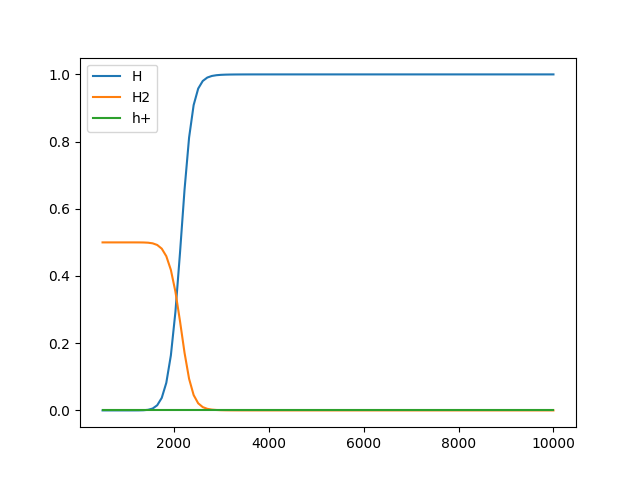
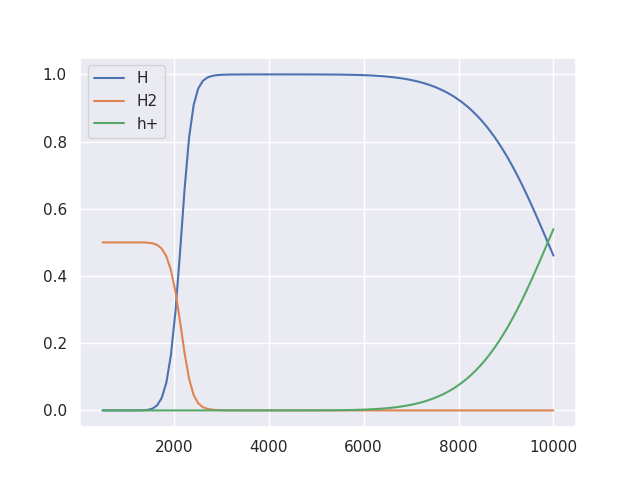
add : 電離を正確に記述

diff --git a/calc_operator.py b/calc_operator.py
@@ -58,31 +58,29 @@ def calc_Q(idx, v, r, rho, t_h, deltat, Q):
     return Q, Phi_res
 
 
-def calc_gamma(fht):
-    molecular = 7 / 5
-    monoatomic = 5 / 3
-    gamma_res = molecular * fht * 2 + monoatomic * (0.5 - fht) * 2
+def calc_gamma(fh, fht, fion):
+    gamma_res = 1 + 1 / (1.5 * (fh + fion) + 5 * fht)
     return gamma_res
 
 
 def calc_fh(tmp, rho, xmu):
-    coef_b = ((2 * np.pi * m_e) ** 0.5 / planck) ** 3
     coef_a = 2 * ((np.pi * m_p) ** 0.5 / planck) ** 3
+    coef_b = ((2 * np.pi * m_e) ** 0.5 / planck) ** 3
 
+    ntot = NA * rho / xmu
     kbt = kb * tmp
 
     exp_xi_d = np.exp(-xi_d / kbt)
     exp_xi_h = np.exp(-xi_h / kbt)
     kh_d = coef_a * (kbt ** 1.5) * exp_xi_d
-    kh_h = coef_b * (kbt ** 1.5) * exp_xi_h
+    kh_h = coef_b * (kbt ** 1.5) * exp_xi_h / ntot
     if np.max(kh_d) < 0.0000001:
         a = np.zeros_like(tmp)
         b = np.ones_like(tmp)
         return a, b / 2, a
-    ntot = NA * rho / xmu
     sqrtk = (kh_d) ** 0.5
     fh_d = 2 * sqrtk / (sqrtk + (kh_d + 4 * ntot) ** 0.5)
-    fh_h = 0
+    fh_h = (kh_h / (1 + kh_h)) ** 0.5
 
     fht = (1 - fh_d) / 2
     fh = fh_d * (1 - fh_h)

diff --git a/plot_fh_2d.py b/plot_fh_2d.py
@@ -21,11 +21,14 @@ def search_fh():
         best_high = 0.0
         best_tmp_high = 100
         for item in tmp_ls:
-            if np.abs(calc_fh(item, rho_res, AVG)[0] - 0.1) < np.abs(best_low - 0.1):
-                best_low = calc_fh(item, rho_res, AVG)[0]
+            fh_low = 2 * (0.5 - calc_fh(item, rho_res, 2.15)[1])
+            fh_high = 2 * (0.5 - calc_fh(item, rho_res, 1.4)[1])
+
+            if np.abs(fh_low - 0.1) < np.abs(best_low - 0.1):
+                best_low = fh_low
                 best_tmp_low = item
-            if np.abs(calc_fh(item, rho_res, AVG)[0] - 0.9) < np.abs(best_high - 0.9):
-                best_high = calc_fh(item, rho_res, AVG)[0]
+            if np.abs(fh_high - 0.9) < np.abs(best_high - 0.9):
+                best_high = fh_high
                 best_tmp_high = item
         print("index:", rho_index)
         print(best_low)

diff --git a/main_ionization.py b/main_ionization.py
@@ -59,7 +59,7 @@ def next(
     rho_res = deltam / ((4 / 3) * np.pi * (np.diff(np.power(r_res, 3))))
     rho = np.vstack((rho, rho_res.astype(np.float64)))
 
-    gamma = calc_gamma(fht[idx])
+    gamma = calc_gamma(fh[idx], fht[idx], fion[idx])
 
     Q, Phi_res = calc_Q(idx, v, r, rho, t_h, deltat, Q)
     efromq = t_n * Phi_res
@@ -87,7 +87,7 @@ def next(
     f = np.zeros_like(tmp[idx])
     tmp_res = np.ones_like(tmp[idx]) * TMP_INIT
     deltatmp = np.zeros_like(tmp[idx])
-    xmu = 1.4 / (0.1 + fh[idx] + fht[idx])
+    xmu = 1.4 / (0.1 + fh[idx] + fht[idx] + 2 * fion[idx])
     if idx <= 10:
         pderfht = np.zeros_like(tmp[idx])
     else:

diff --git a/plot_core.py b/plot_core.py
@@ -4,7 +4,6 @@ import numpy as np
 import matplotlib.pyplot as plt
 import seaborn as sns
 
-from calc_operator import calc_fh, calc_gamma
 from file_operator import read_json, read_index
 from conditions import GRID, AVG
 from plot_fh_2d import search_fh
